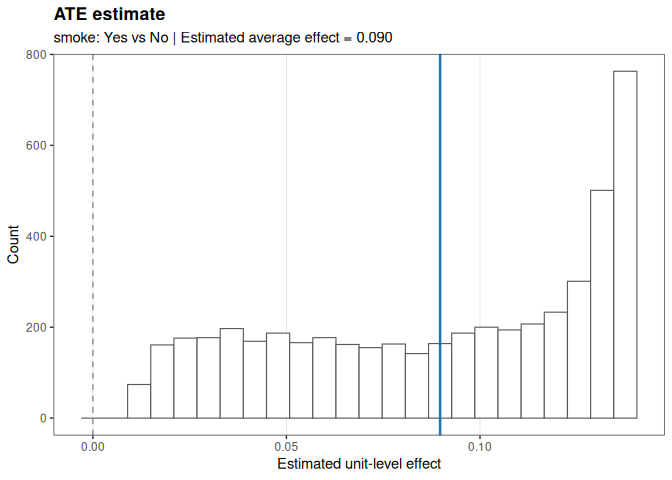
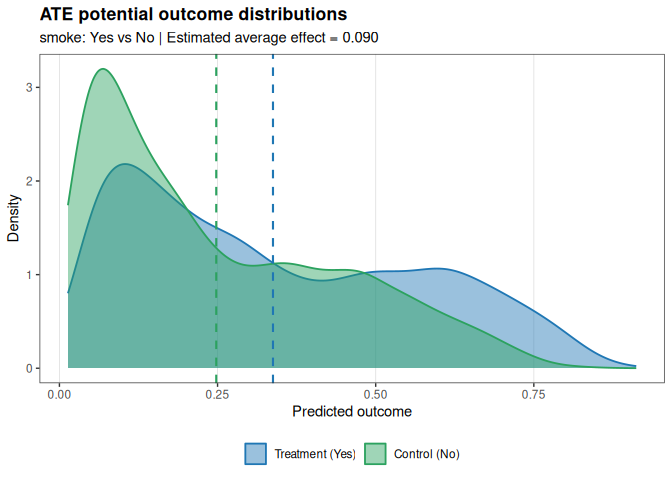
Add estimate outcome density plot

diff --git a/README.md b/README.md
@@ -461,6 +461,11 @@ est_obj
 #> Estimate: 0.0897 | SE: 0.0006 | 95% normal CI [0.0886, 0.0908]
 ```
 
+By default, `plot()` shows the model-implied potential outcome
+distributions under treatment and control, with dashed lines marking the
+corresponding means. The unit-level effect histogram remains available
+with `plot(est_obj, style = "effects")`.
+
 ``` r
 plot(est_obj)
 ```